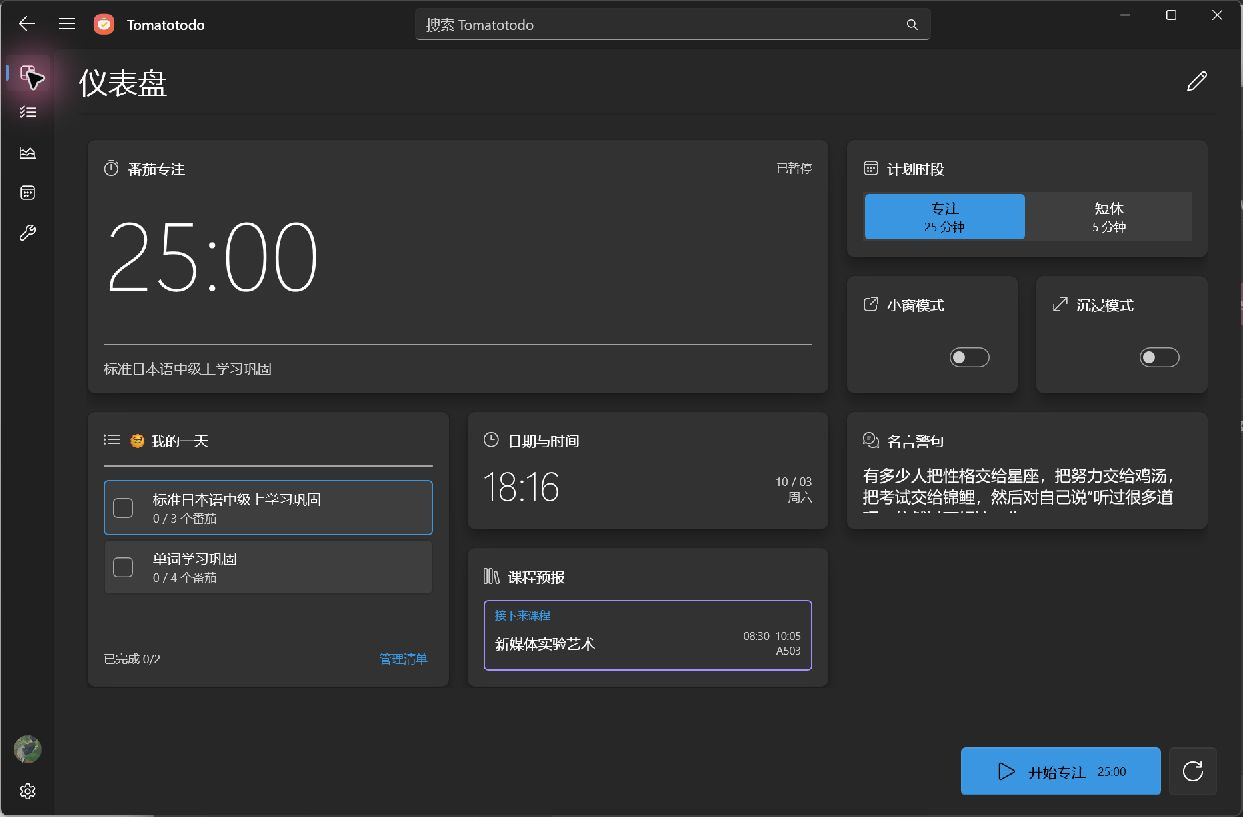
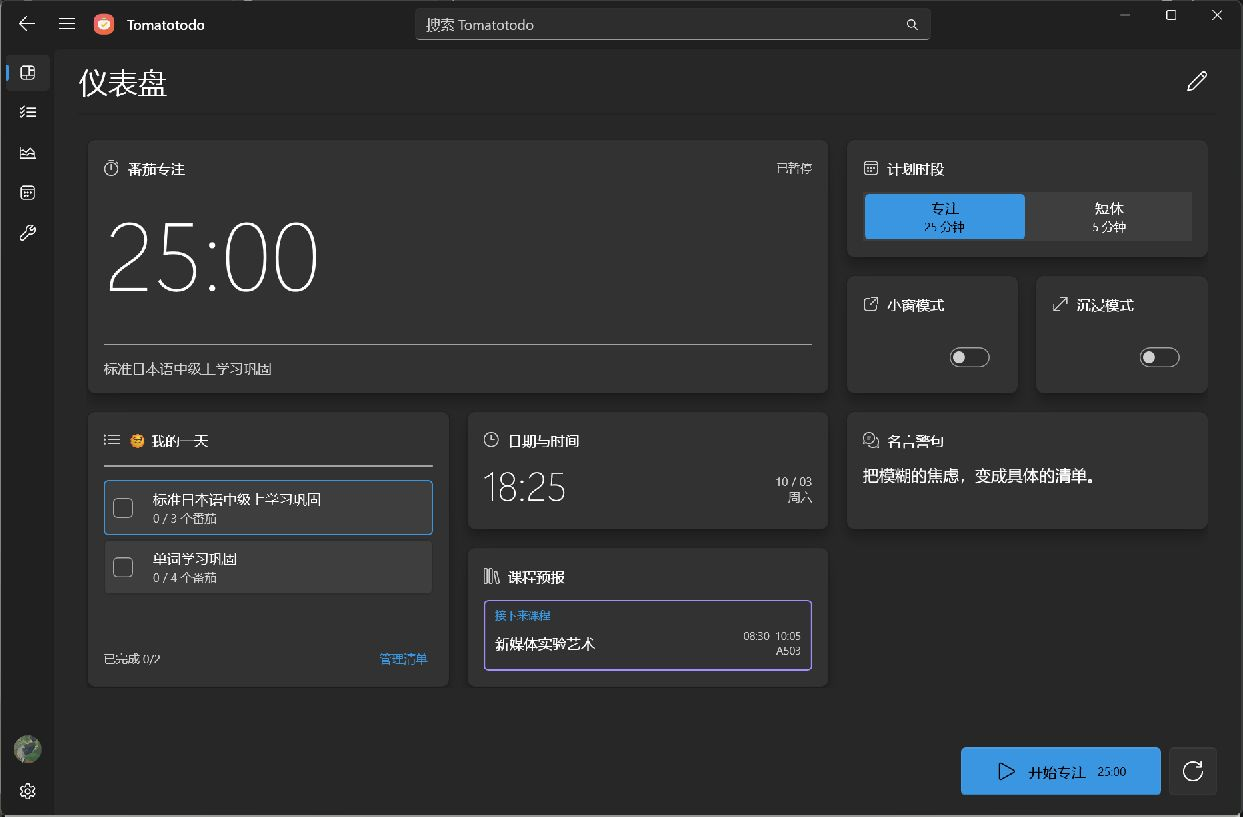
fix: recapture product screenshots without cursor glow

diff --git a/Website/assets/SOURCES.md b/Website/assets/SOURCES.md
@@ -25,3 +25,5 @@ Create a premium editorial background photograph for the Tomatotodo productivity
 - windows-blue-light.png / windows-blue-dark.png: actual installed Windows dashboard after selecting #0078D7 and the corresponding appearance mode through the client UI.
 - windows-orange-light.png / windows-orange-dark.png: actual installed Windows dashboard after selecting #DA3B01 and the corresponding appearance mode through the client UI.
 - Appearance controls select these captured files; no website-color changes, screenshot tint filters or generated UI are used.
+
+- All seven Windows screenshots were recaptured on 2026-10-03 with the mouse parked outside the client window to exclude the custom cursor glow. The cover was regenerated from these clean assets with cursor-free browser capture.

diff --git a/Website/AGENTS.md b/Website/AGENTS.md
@@ -10,3 +10,5 @@
 - Main Windows product screenshots and promotional covers use the actual light theme. Dark theme belongs in a dedicated appearance section alongside light/dark mode and theme-color explanations.
 
 - Feature phone screenshots show the full original image without cover cropping or negative bottom margins. Appearance swatches select actual software theme screenshots, show the applied software color, and never change website colors or recolor screenshots. Light/dark screenshot changes use a soft crossfade and honor reduced motion.
+
+- Before capturing real client windows, park the mouse outside the window and verify that neither the pointer nor its glow appears. Render promotional covers with cursor-free browser capture.
